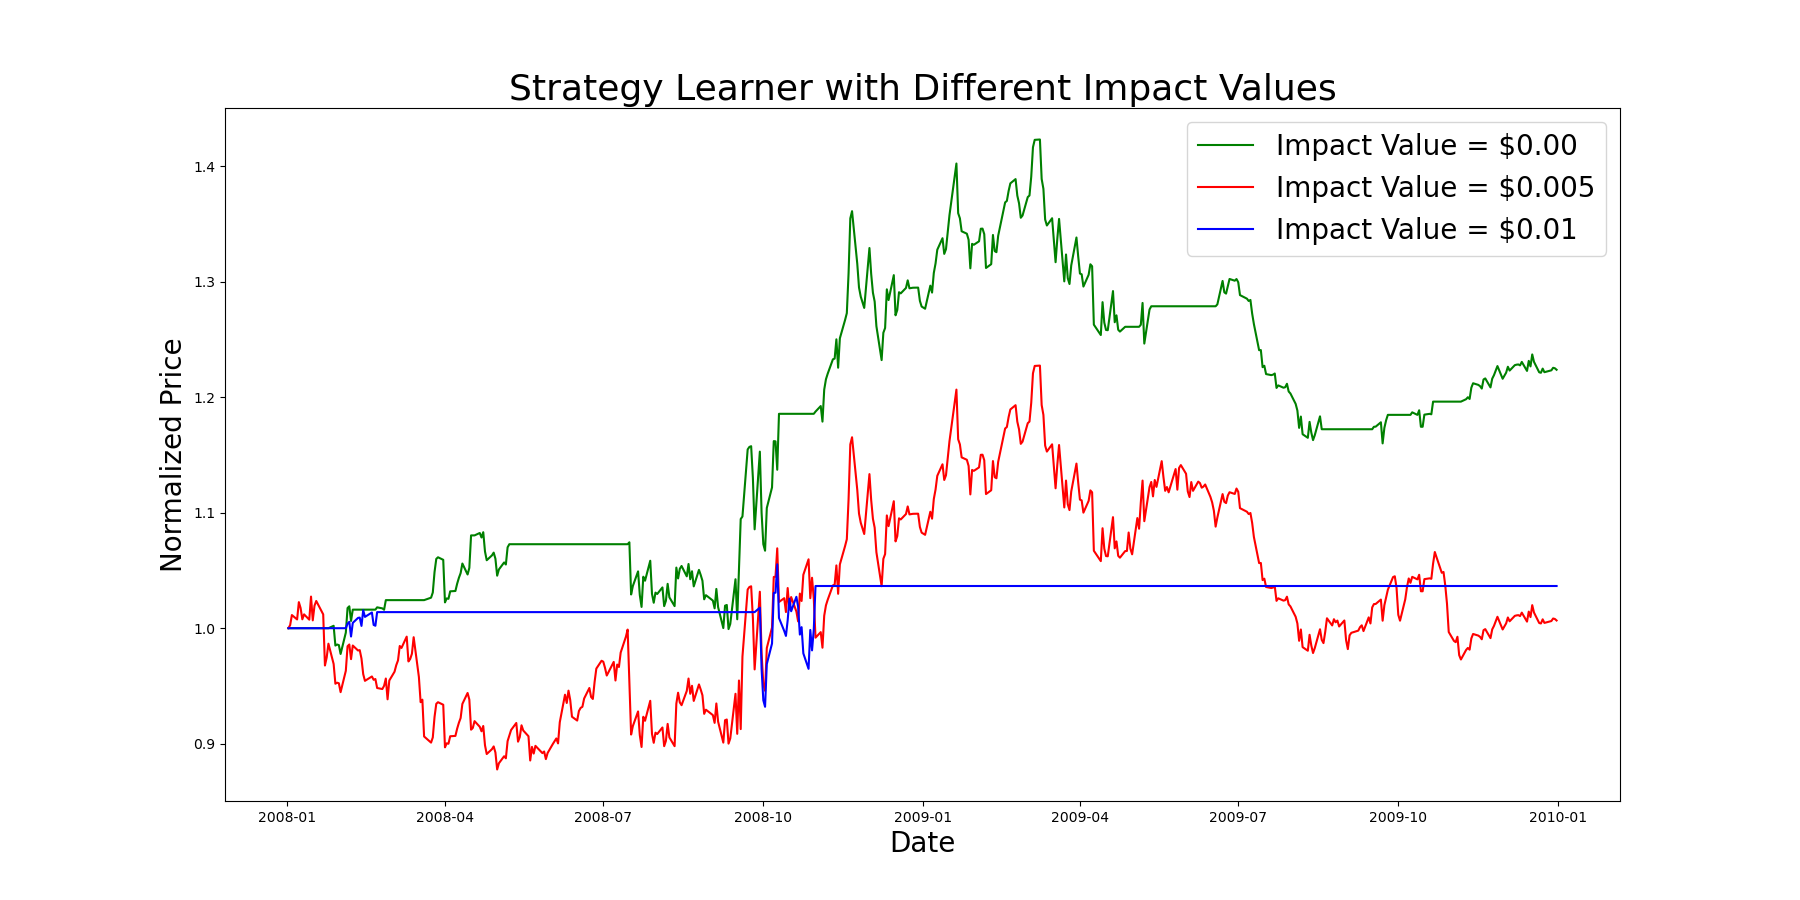
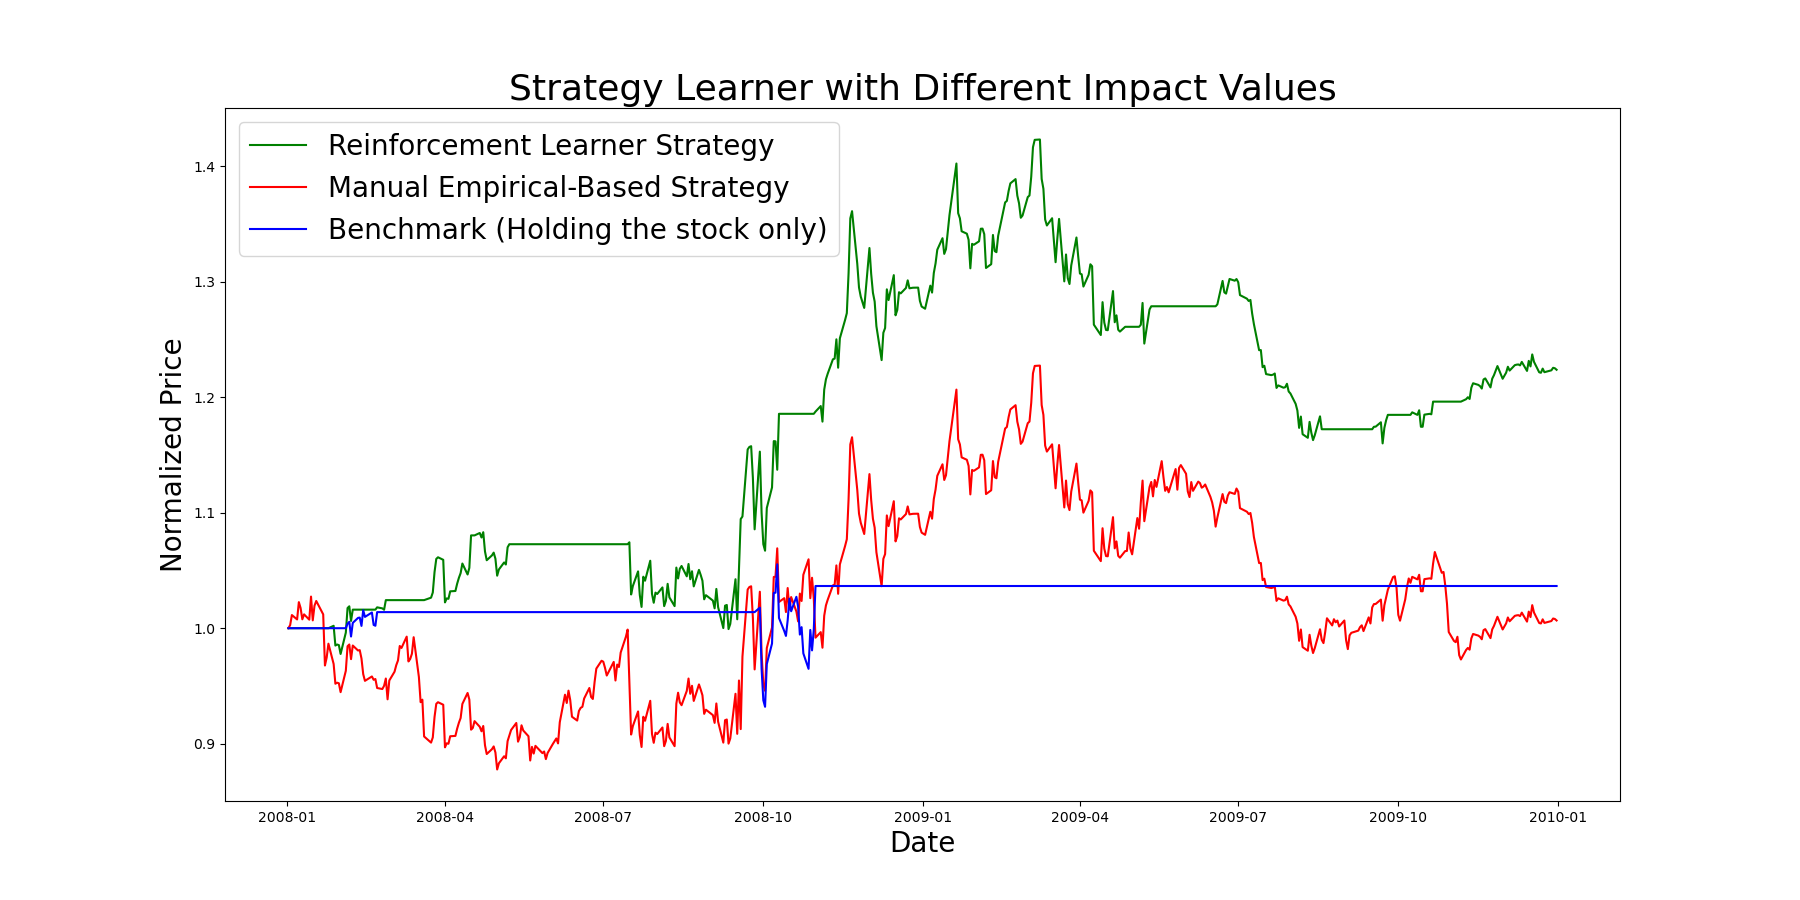
Regenerate chart

diff --git a/experiment2.py b/experiment2.py
@@ -39,9 +39,9 @@ def experiment2():
     sl_portvals_1 = sl_portvals_1 / sl_portvals_1.iloc[0]
 
     plt.figure(figsize=(18, 9))
-    plt.plot(sl_portvals_05, 'Green', label='Impact Value = $0.00')
-    plt.plot(sl_portvals_0, 'Red', label='Impact Value = $0.005')
-    plt.plot(sl_portvals_1, 'Blue', label='Impact Value = $0.01')
+    plt.plot(sl_portvals_05, 'Green', label='Reinforcement Learner Strategy')
+    plt.plot(sl_portvals_0, 'Red', label='Manual Empirical-Based Strategy')
+    plt.plot(sl_portvals_1, 'Blue', label='Benchmark (Holding the stock only)')
     plt.title('Strategy Learner with Different Impact Values', fontsize=26)
     plt.legend(fontsize=20)
     plt.xlabel('Date', fontsize=20)
@@ -78,3 +78,6 @@ def stats(portvals):
     mean = daily_returns.mean()
     stdev = daily_returns.std()
     return cr, mean, stdev
+
+if __name__ == "__main__":
+    experiment2()

diff --git a/README.md b/README.md
@@ -1,2 +1,5 @@
-# trading-strategy
-ML Classification Learners for Stock Trading
+# Stock Trading Using Reinforcement Learner
+In this project my goal was to come up with a stock trading strategy based on a stock's scores using technical indicators. 
+
+Feeding these technical indicator scores to my model-free Reinforcement "Q-learner", I was able to produce a trading strategy that outperformed my benchmark by %30.
+
